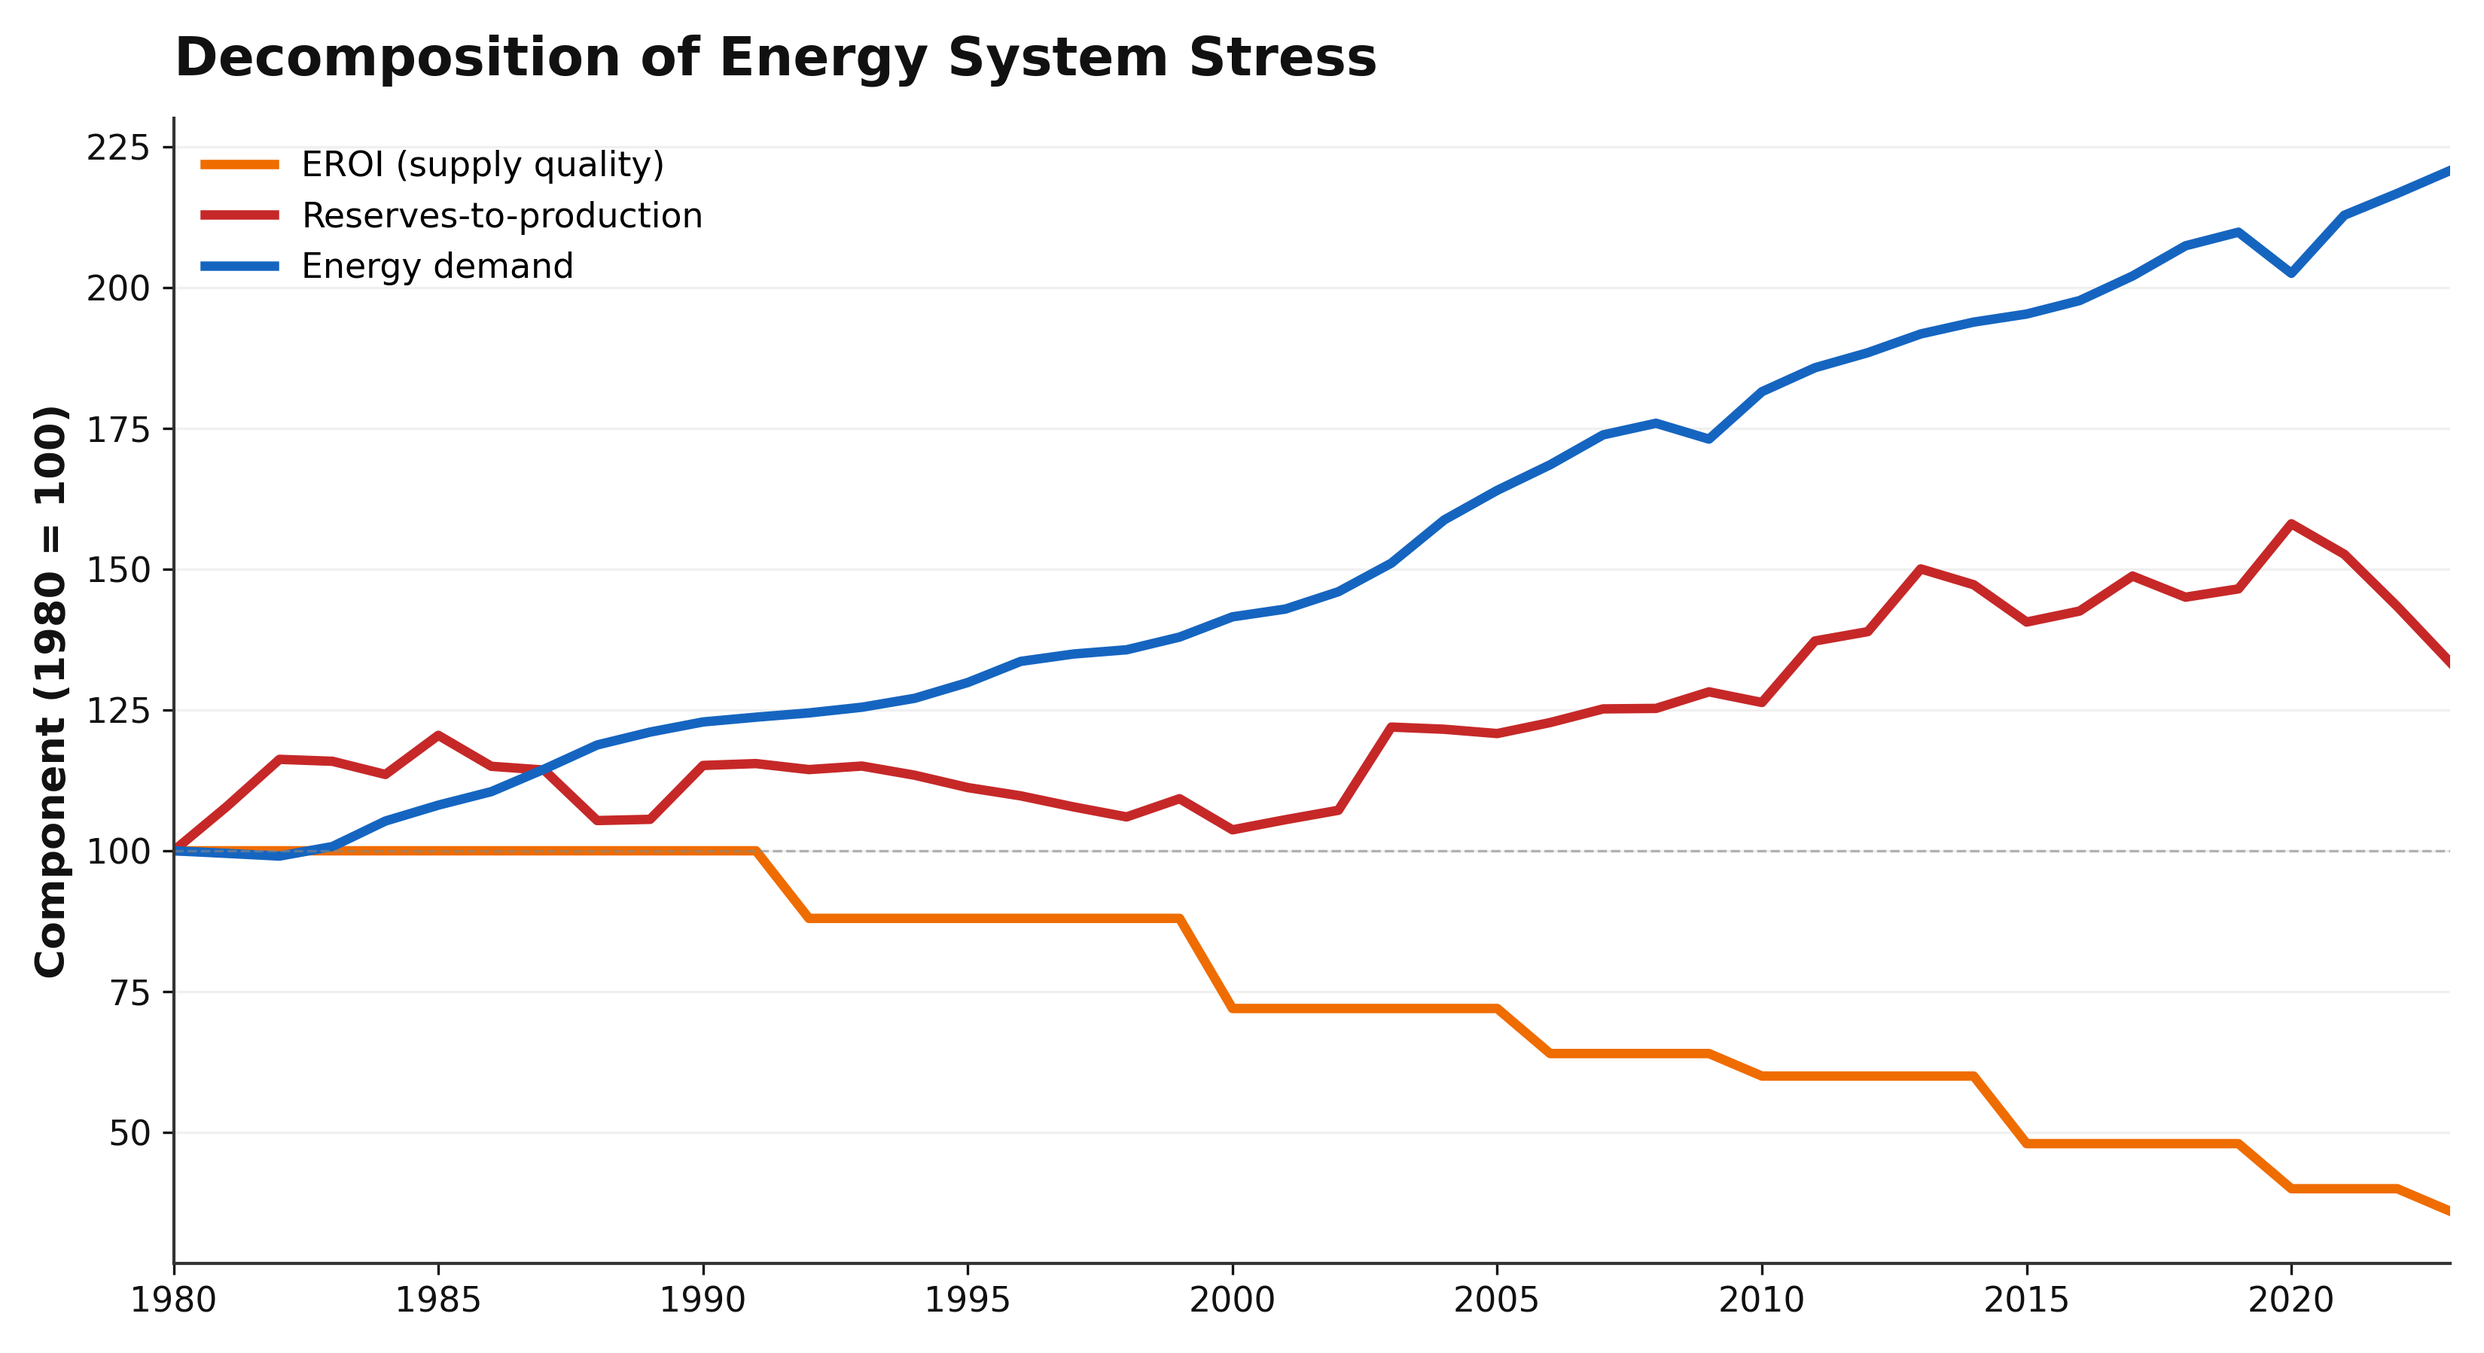
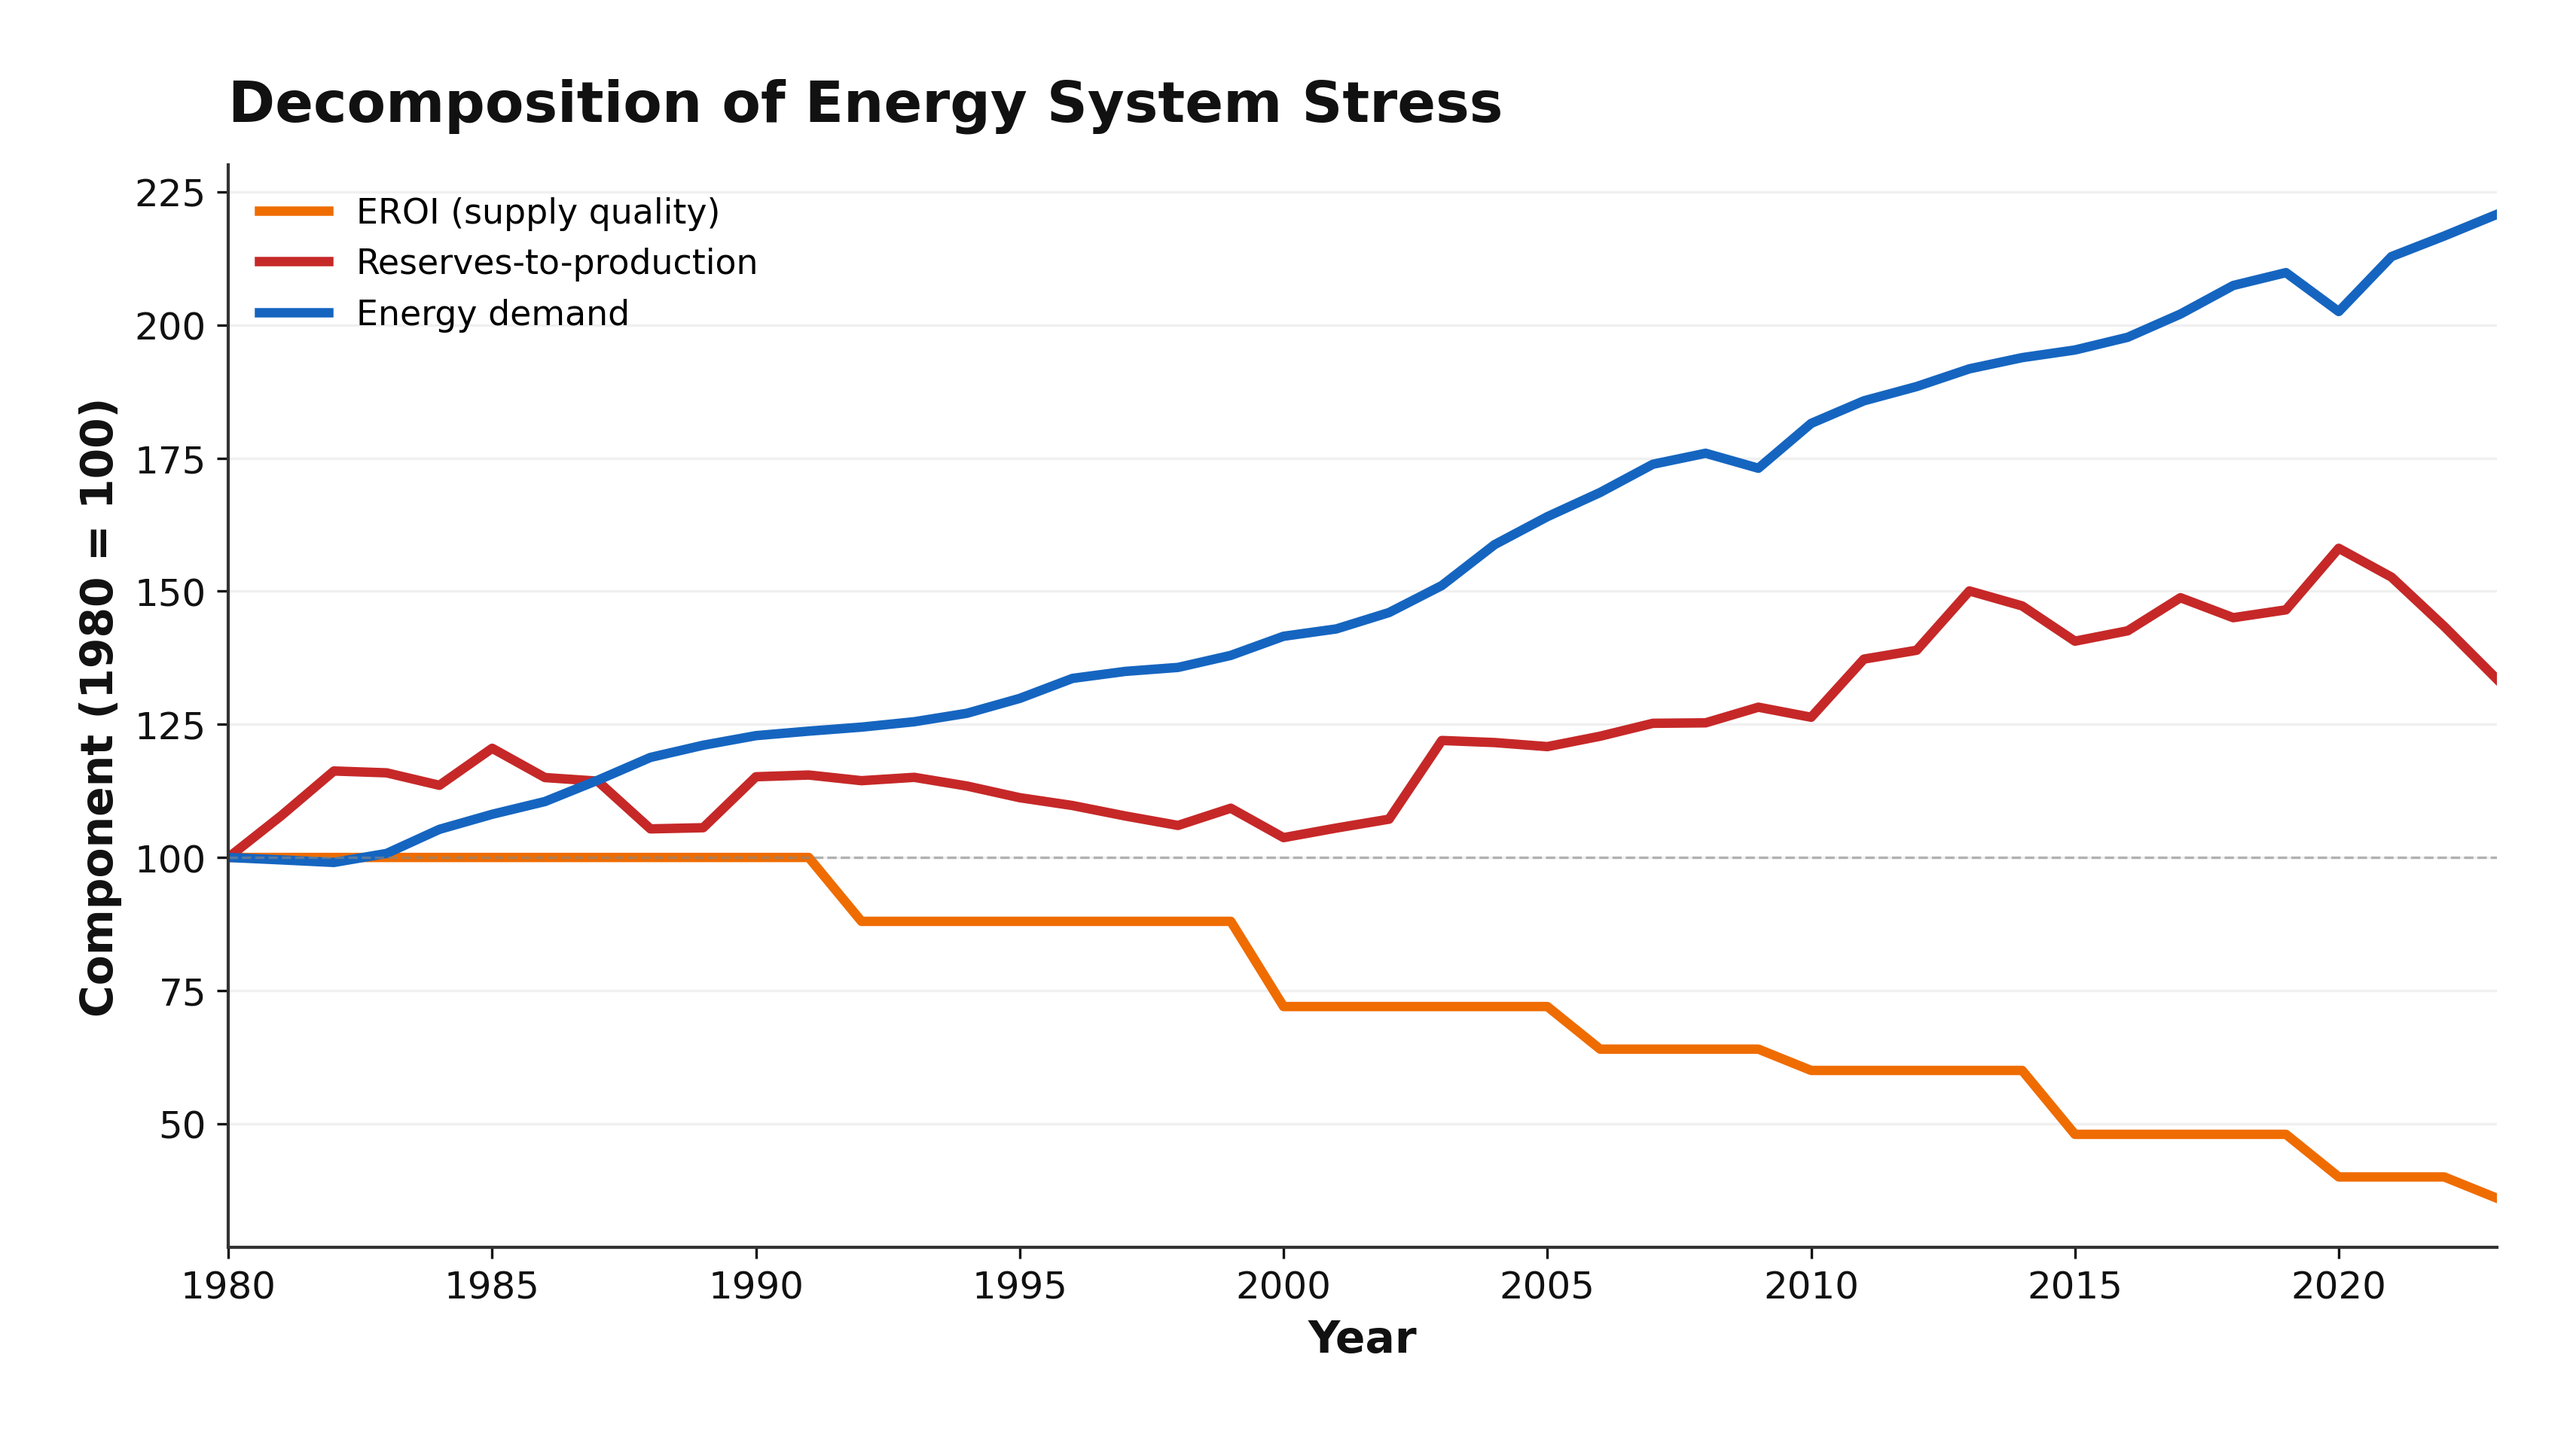
Tighten README captions and fix figure cropping
Rename hero chart, expand pad_inches on saved figures, and add
x-axis labels with larger type on the divergence and
decomposition charts so axis text is fully visible.

diff --git a/src/backtest/cesi_backtest.py b/src/backtest/cesi_backtest.py
@@ -429,7 +429,7 @@ plt.rcParams.update({
 def _save(fig, name, dpi=300):
     for d in FIG_DIRS:
         fig.savefig(f'{d}/{name}.png', dpi=dpi, bbox_inches='tight',
-                    pad_inches=0.15, facecolor='white')
+                    pad_inches=0.35, facecolor='white')
 
 
 # ── Figure 1 (hero): CESI vs WTI — both normalised, single axis ──
@@ -460,7 +460,7 @@ ax.annotate('Post-2005 divergence:\nstress keeps rising as\noil prices cycle',
             ha='left', va='top',
             arrowprops=dict(arrowstyle='->', color='#5D4037', lw=1.5))
 
-ax.set_title('Energy Stress Rising Despite Oil Price Cycles',
+ax.set_title('Energy Stress Keeps Climbing While Oil Prices Stall',
              fontsize=22, fontweight='bold', loc='left', pad=16, color='#0B0B0B')
 ax.set_ylabel('Index (1980 = 100)', fontsize=16, fontweight='bold')
 ax.set_xlabel('Year', fontsize=16, fontweight='bold')
@@ -487,12 +487,13 @@ ax.fill_between(YEARS, 0, div_vals, color=PAL_DIV, alpha=0.18, linewidth=0)
 ax.plot(YEARS, div_vals, color=PAL_DIV, linewidth=2.8)
 ax.axhline(0, color='#333333', linewidth=1)
 
-ax.set_title('CESI–WTI Divergence Over Time', fontsize=17,
+ax.set_title('CESI–WTI Divergence Over Time', fontsize=18,
              fontweight='bold', loc='left', pad=14, color='#111111')
-ax.set_ylabel('CESI − WTI (normalised, 1980 = 100)', fontsize=13, fontweight='bold')
+ax.set_ylabel('CESI − WTI (1980 = 100)', fontsize=14, fontweight='bold')
+ax.set_xlabel('Year', fontsize=14, fontweight='bold')
 ax.set_xlim(1980, 2023)
 ax.xaxis.set_major_locator(ticker.MultipleLocator(5))
-ax.tick_params(labelsize=11)
+ax.tick_params(labelsize=12)
 ax.grid(True, which='major', axis='y', alpha=0.18, linewidth=0.8)
 for spine in ('top', 'right'):
     ax.spines[spine].set_visible(False)
@@ -515,12 +516,13 @@ ax.plot(YEARS, [E_norm[y]    for y in YEARS], color=PAL_DEMAND, linewidth=3.0,
         label='Energy demand')
 ax.axhline(100, color='#888888', linewidth=0.8, linestyle='--', alpha=0.6)
 
-ax.set_title('Decomposition of Energy System Stress', fontsize=17,
+ax.set_title('Decomposition of Energy System Stress', fontsize=18,
              fontweight='bold', loc='left', pad=14, color='#111111')
-ax.set_ylabel('Component (1980 = 100)', fontsize=13, fontweight='bold')
+ax.set_ylabel('Component (1980 = 100)', fontsize=14, fontweight='bold')
+ax.set_xlabel('Year', fontsize=14, fontweight='bold')
 ax.set_xlim(1980, 2023)
 ax.xaxis.set_major_locator(ticker.MultipleLocator(5))
-ax.tick_params(labelsize=11)
+ax.tick_params(labelsize=12)
 ax.grid(True, which='major', axis='y', alpha=0.18, linewidth=0.8)
 for spine in ('top', 'right'):
     ax.spines[spine].set_visible(False)

diff --git a/README.md b/README.md
@@ -40,6 +40,8 @@ The usual debate about long-run energy is framed as *how much oil is left*. CESI
 
 <br>
 
+<br>
+
 <p align="center">
   <img src="paper/figures/CESI_WTI_divergence.png" alt="CESI minus WTI divergence, 1980–2023" width="780">
 </p>
@@ -52,7 +54,7 @@ The usual debate about long-run energy is framed as *how much oil is left*. CESI
   <img src="paper/figures/CESI_decomposition.png" alt="CESI decomposition into EROI, reserves-to-production, and demand" width="780">
 </p>
 
-<p align="center">Breaks energy system stress into EROI, reserves-to-production, and demand.</p>
+<p align="center">Shows the breakdown of energy system stress into EROI, reserves-to-production, and demand.</p>
 
 <br>
 
